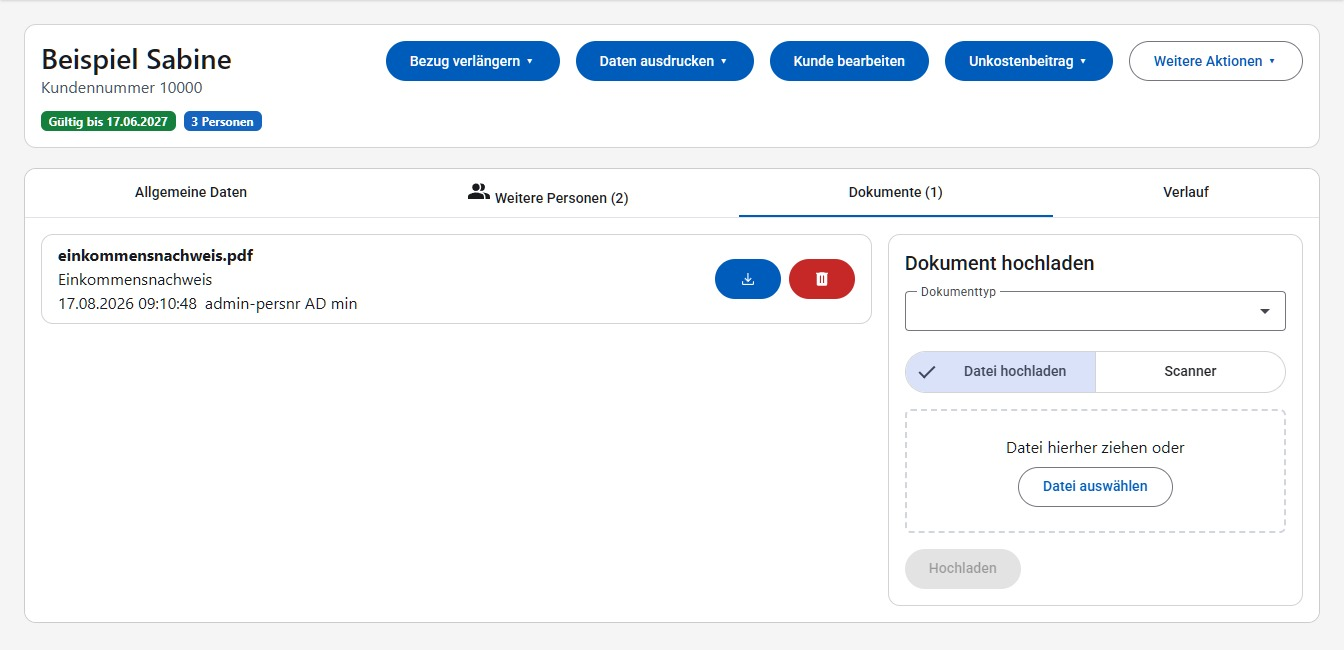
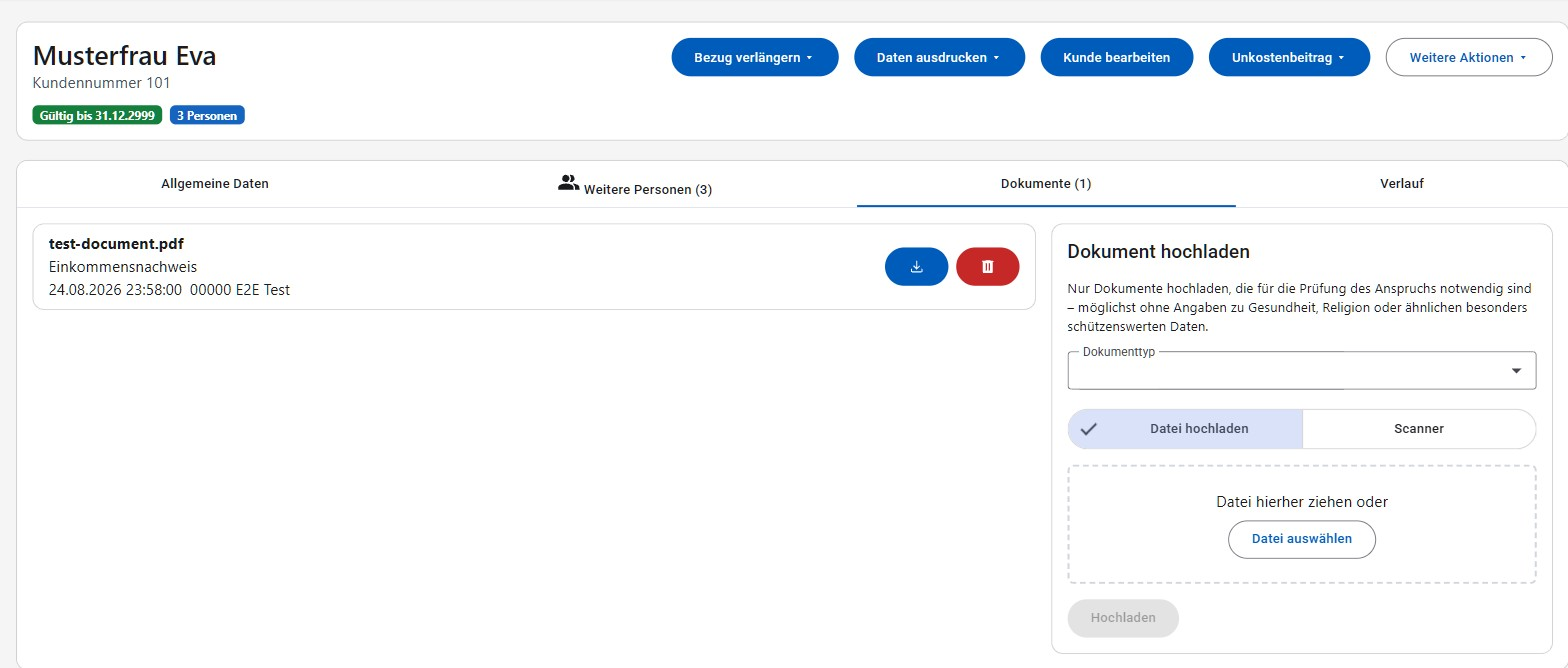
feat(customer): hint against special-category data in notes and documents
Nothing kept health, religion or similar Art. 9 GDPR data out of household
notes and uploaded documents. Add a visible hint at the note dialog and the
upload panel, matching the support dialog's existing hint style.

Closes #3175

diff --git a/frontend/src/main/webapp/cypress/e2e/customer-detail.cy.ts b/frontend/src/main/webapp/cypress/e2e/customer-detail.cy.ts
@@ -353,6 +353,7 @@ describe('Customer Detail', () => {
 
         cy.byTestId('documents-tab-label').click();
         cy.byTestId('upload-document-panel').should('be.visible');
+        cy.byTestId('uploadDocumentHint').should('be.visible');
         cy.byTestId('documentTypeInput').click();
         cy.byTestId('documentTypeInput-option-PROOF_OF_INCOME').click();
         cy.byTestId('documentFileInput').selectFile('cypress/fixtures/documents/test-document.pdf', {force: true});
@@ -980,6 +981,7 @@ describe('Customer Detail', () => {
       cy.visit('/kunden/detail/103');
 
       cy.byTestId('addnote-button').click();
+      cy.byTestId('noteHint').should('be.visible');
       cy.checkDialogAccessibility();
       cy.byTestId('cancelButton').click();
 

diff --git a/frontend/src/main/webapp/src/app/modules/customer/views/customer-detail/upload-document-panel.component.html b/frontend/src/main/webapp/src/app/modules/customer/views/customer-detail/upload-document-panel.component.html
@@ -5,6 +5,10 @@
     </mat-card-title>
   </mat-card-header>
   <mat-card-content>
+    <p class="text-sm mb-4" testid="uploadDocumentHint">
+      Nur Dokumente hochladen, die für die Prüfung des Anspruchs notwendig sind – möglichst ohne
+      Angaben zu Gesundheit, Religion oder ähnlichen besonders schützenswerten Daten.
+    </p>
     <mat-form-field class="w-full">
       <mat-label>Dokumenttyp</mat-label>
       <mat-select testid="documentTypeInput" [ngModel]="documentType()" (ngModelChange)="documentType.set($event)">

diff --git a/frontend/src/main/webapp/src/app/modules/customer/views/customer-detail/dialogs/add-note-dialog.component.html b/frontend/src/main/webapp/src/app/modules/customer/views/customer-detail/dialogs/add-note-dialog.component.html
@@ -5,6 +5,10 @@
       <textarea matInput rows="9"
                 [ngModel]="noteText()" (ngModelChange)="noteText.set($event)"></textarea>
     </mat-form-field>
+    <p class="text-sm" testid="noteHint">
+      Nur Angaben festhalten, die für die Prüfung des Anspruchs notwendig sind – keine Angaben zu
+      Gesundheit, Religion oder ähnlichen besonders schützenswerten Daten.
+    </p>
   </div>
   <div tafel-dialog-actions>
     <button testid="okButton" matButton="filled" (click)="dialogRef.close(noteText())"

diff --git a/docs/userguide/kunden.md b/docs/userguide/kunden.md
@@ -40,7 +40,7 @@ Rechts oben im Kopfbereich stehen die Aktionen zur Verfügung, gereiht nach ihre
 - **Unkostenbeitrag**: Ist noch ein Betrag offen, wird er als roter Hinweis direkt am Button angezeigt; im Menü stehen dann zusätzlich "Alles bezahlt" und "Betrag eintragen" zur Verfügung. Unabhängig davon kann über "Betrag bearbeiten" (unterhalb einer Trennlinie) der Betrag jederzeit manuell korrigiert werden.
 - **Weitere Aktionen**: Sammelt die selteneren bzw. sicherheitskritischen Aktionen **Kunde deaktivieren**, **Kunde sperren**/**entsperren** und **Kunde löschen** (jeweils mit Sicherheitsabfrage) in einem Menü.
 - Ist gerade ein Ausgabetag aktiv, kann dem Kunden rechts oben eine **Ticketnummer** zugewiesen werden; ist bereits ein Ticket zugewiesen, wird es stattdessen angezeigt und kann über den Papierkorb-Button wieder entfernt werden. Ist der Kunde gesperrt, ist die Zuweisung deaktiviert; ein Tooltip erklärt warum.
-- Über den grünen **+**-Button bei "Aktuellste Notiz" (die Kartenüberschrift zeigt zusätzlich die Gesamtanzahl an Notizen) kann eine neue Notiz erfasst werden; bei mehreren Notizen können über **Alle Notizen anzeigen** alle bisherigen Notizen eingesehen werden. Die neueste Notiz zeigt zusätzlich eine relative Zeitangabe ("vor 3 Tagen") mit dem genauen Zeitpunkt als Tooltip.
+- Über den grünen **+**-Button bei "Aktuellste Notiz" (die Kartenüberschrift zeigt zusätzlich die Gesamtanzahl an Notizen) kann eine neue Notiz erfasst werden; bei mehreren Notizen können über **Alle Notizen anzeigen** alle bisherigen Notizen eingesehen werden. Die neueste Notiz zeigt zusätzlich eine relative Zeitangabe ("vor 3 Tagen") mit dem genauen Zeitpunkt als Tooltip. Im Dialog weist ein Hinweis darauf hin, nur für die Prüfung des Anspruchs notwendige Angaben festzuhalten – keine Angaben zu Gesundheit, Religion oder ähnlichen besonders schützenswerten Daten.
 
 Telefonnummer und E-Mail-Adresse sind als Links hinterlegt (öffnen die Telefon- bzw. Mail-App); über den Kopieren-Button neben "Adresse" lässt sich die Adresse in die Zwischenablage kopieren, etwa um sie in ein anderes System einzutragen.
 
@@ -67,7 +67,7 @@ Neue Dokumente können über die Quelle-Auswahl auf zwei Arten hochgeladen werde
 
 Der Scanner-Ordner ist optional: Ist er für die aktuelle Installation nicht eingerichtet oder deaktiviert, wird die Quelle-Auswahl gar nicht angezeigt und Dokumente werden ausschließlich vom Gerät hochgeladen. Die Administration kann den Scanner-Ordner auch im laufenden Betrieb ein- oder ausschalten: Die Quelle-Auswahl erscheint bzw. verschwindet dann von selbst, ohne dass die Seite neu geladen werden muss. War gerade **Scanner** ausgewählt, wird automatisch auf **Datei hochladen** zurückgeschaltet.
 
-Vor dem Hochladen muss der **Dokumenttyp** ausgewählt werden.
+Vor dem Hochladen muss der **Dokumenttyp** ausgewählt werden. Ein Hinweis erinnert daran, nur für die Prüfung des Anspruchs notwendige Dokumente hochzuladen – möglichst ohne Angaben zu Gesundheit, Religion oder ähnlichen besonders schützenswerten Daten.
 
 ![Dokumente](images/kunden-detail-dokumente.jpg)
 

diff --git a/CHANGELOG.md b/CHANGELOG.md
@@ -5,6 +5,9 @@ Diese Datei dokumentiert die nennenswerten Änderungen an Tafel Admin auf Deutsc
 Jeder Eintrag ist eine einzelne, nicht umgebrochene Zeile, die mit `- ` beginnt - die Release-Pipeline erkennt einen neuen Changelog-Eintrag genau daran.
 
 ## [Unreleased]
+- Beim Erfassen einer Notiz und beim Hochladen eines Dokuments erinnert jetzt ein Hinweis daran, nur für die Anspruchsprüfung notwendige Angaben zu erfassen - keine Angaben zu Gesundheit, Religion oder ähnlichen besonders schützenswerten Daten.
+
+## [1.11.0] - 2026-08-24
 - Mitarbeiter können jetzt jederzeit endgültig gelöscht werden; bereits erfasste Kundendaten, Notizen und Warenerfassungen, die auf einen gelöschten Mitarbeiter verweisen, zeigen stattdessen "Mitarbeiter gelöscht" an. Ist noch ein Benutzerkonto mit dem Mitarbeiter verknüpft, muss dieses zuerst entfernt werden.
 - Kunden anlegen/bearbeiten warnt jetzt beim Speichern, wenn Name und Adresse einem bereits vorhandenen Kunden ähneln oder eine Person mit gleichem Namen und Geburtsdatum schon in einem anderen Haushalt erfasst ist - erst nach Bestätigung wird trotzdem gespeichert.
 
